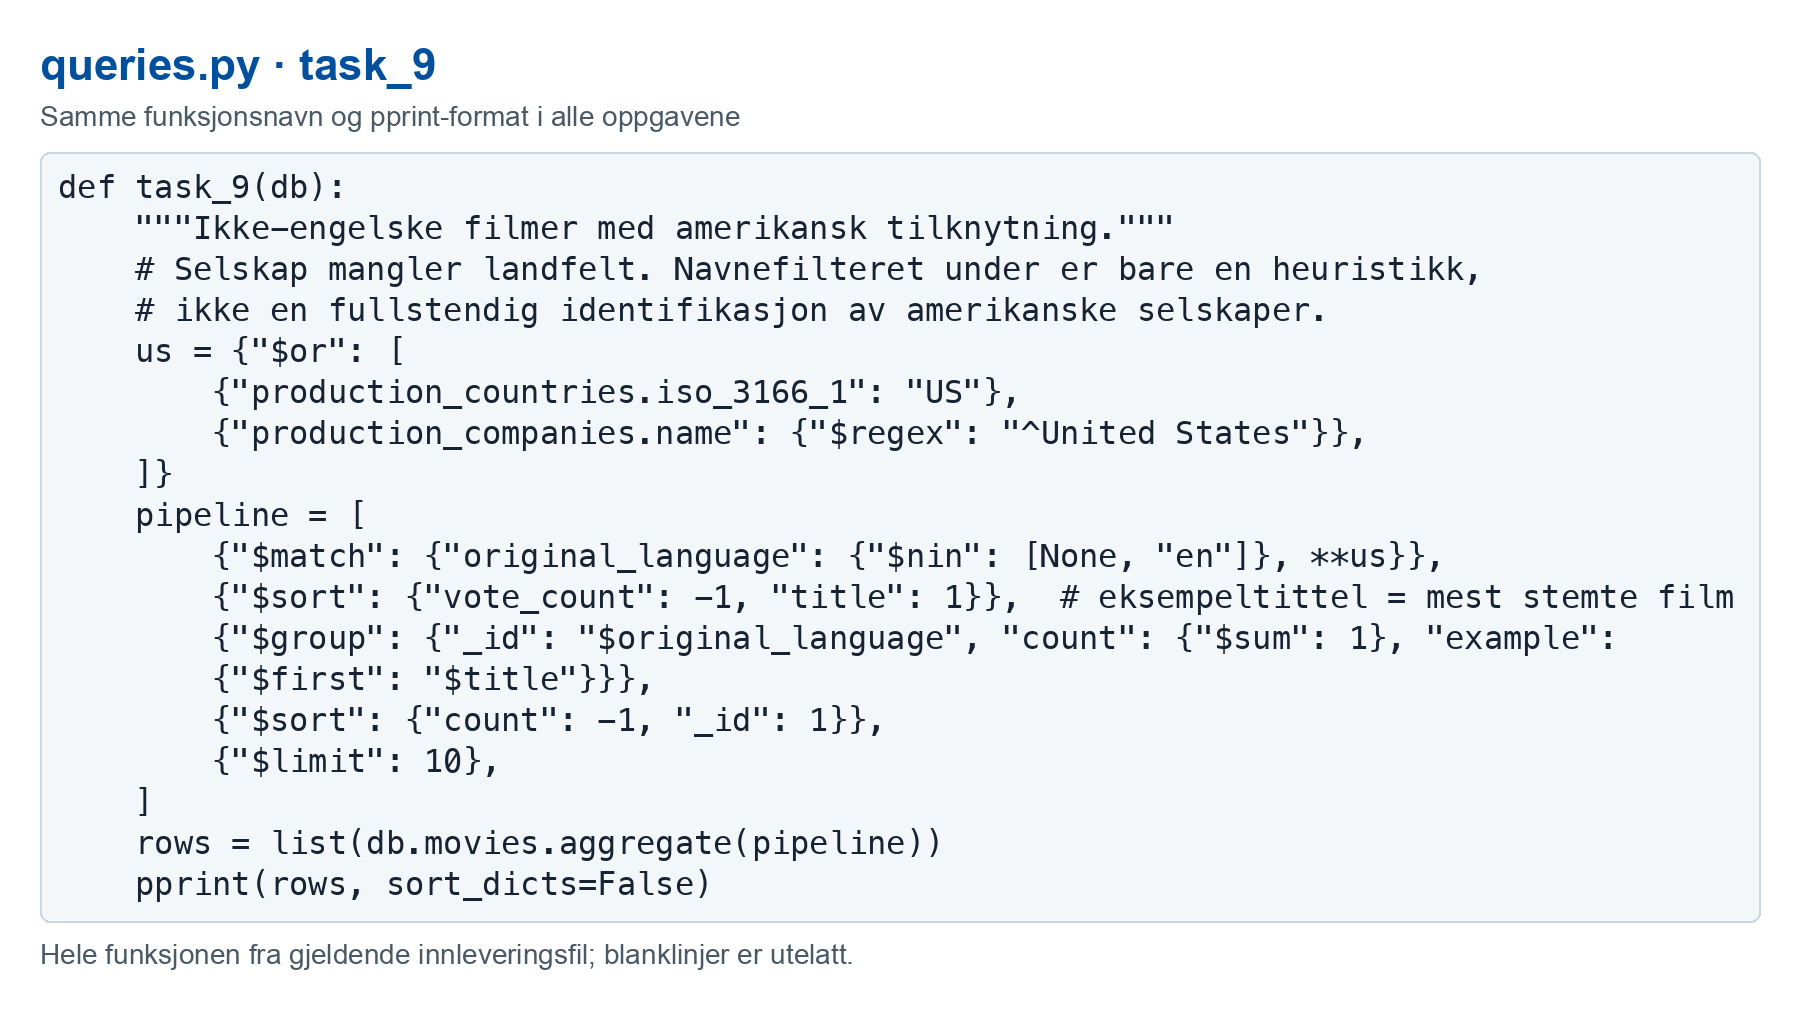
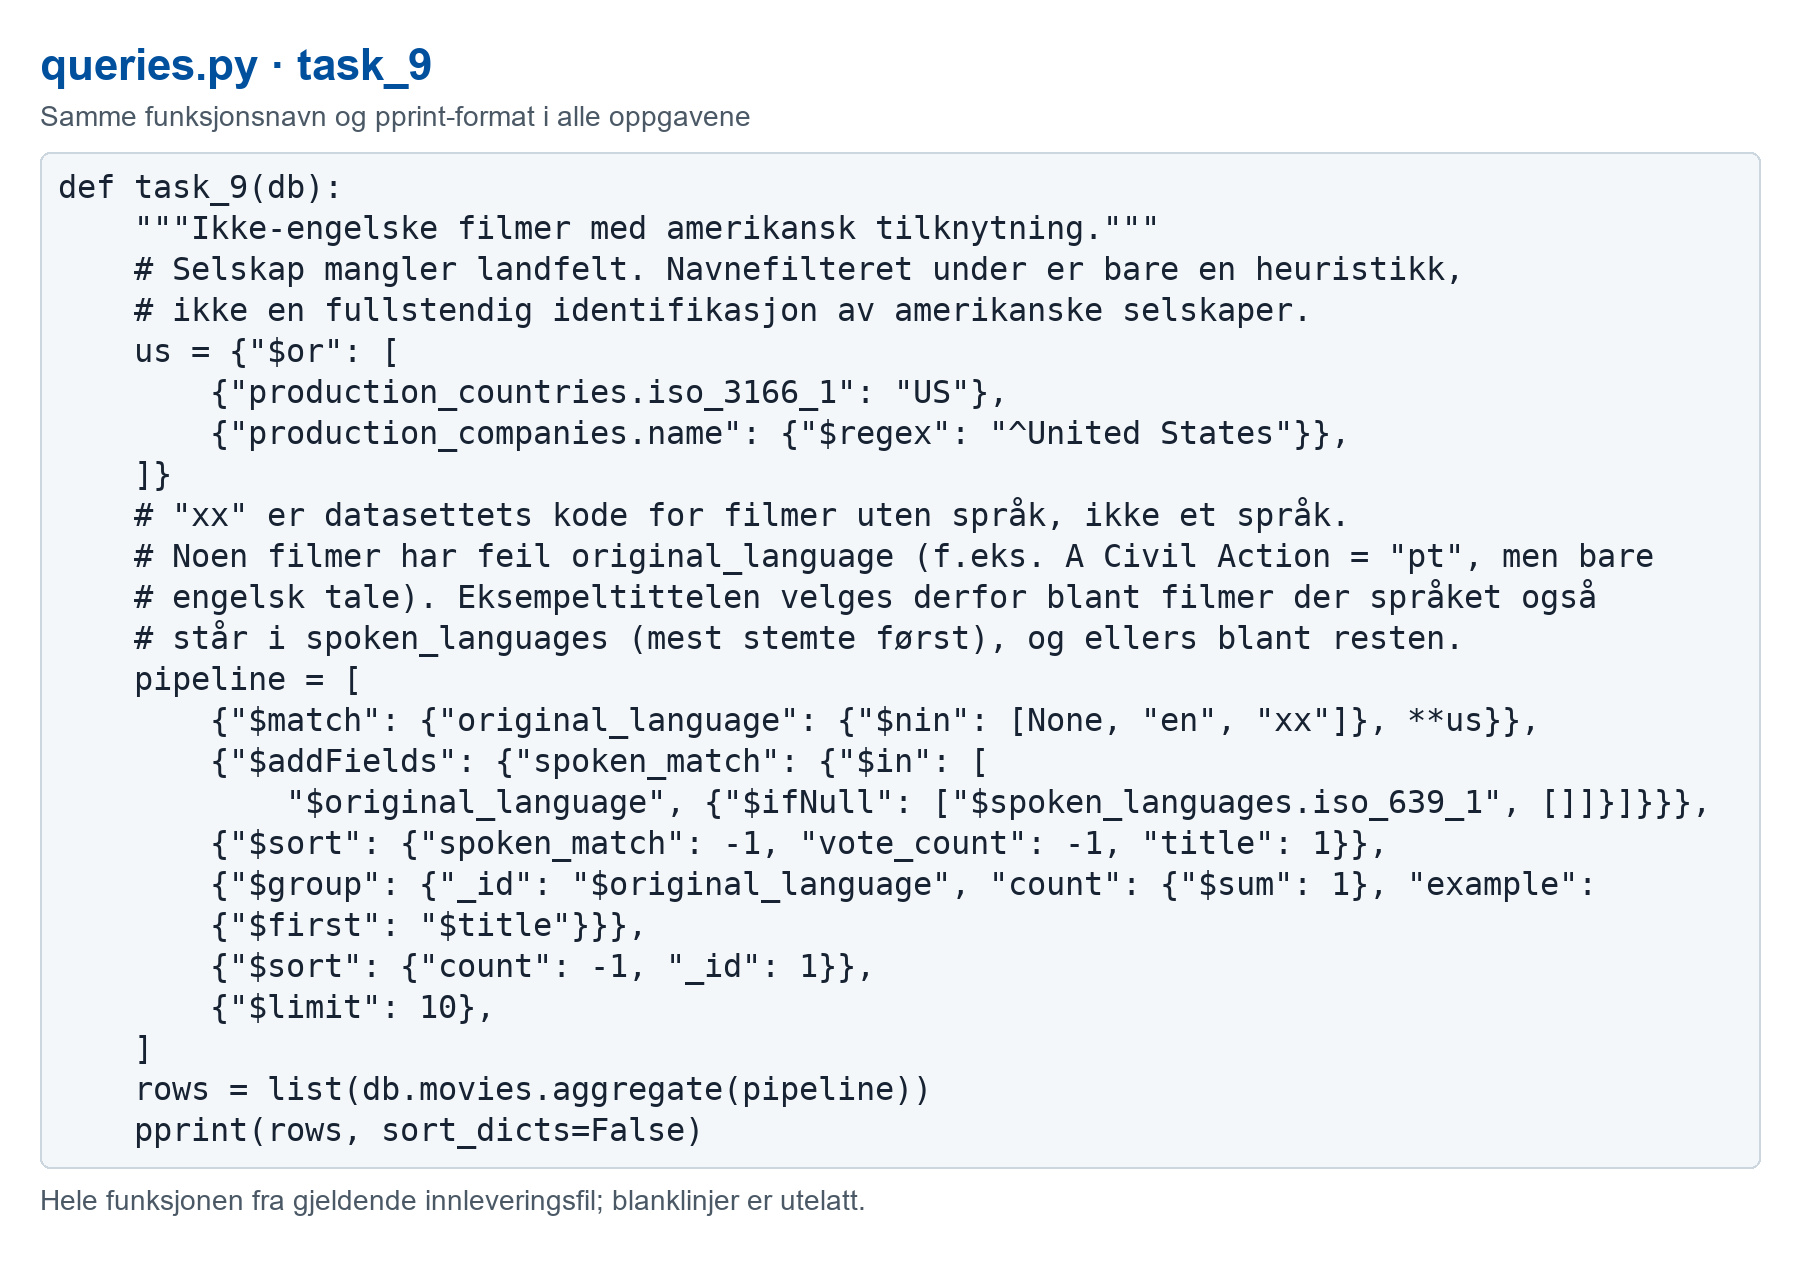
endrer oppgave 9

Changed region(s): [[0.0, 0.0303, 0.9644, 0.9697], [0.8089, 0.6667, 0.8711, 0.7273], [0.3733, 0.7576, 0.4044, 0.7879]]

diff --git a/report/main.tex b/report/main.tex
@@ -291,9 +291,11 @@ Topplisten domineres av Akira Kurosawa, som har 15 av 20 par, blant annet med Mi
 \FloatBarrier
 \subsubsection{Oppgave 9: Ikke-engelske filmer med amerikansk tilknytning}
 \paragraph{Metode og resultat}
-Vi velger filmer der \texttt{original\_language} ikke er \texttt{en} og ikke \texttt{null}. En vanlig \enquote{ikke lik}-sjekk ville tatt med de 11 filmene uten språk. Amerikansk tilknytning er \texttt{production\_countries.iso\_3166\_1 = "US"}. Produksjonsselskapene har bare navn og ID, ikke land. Navnefilteret \texttt{\^{}United States} er derfor bare en heuristikk og identifiserer ikke amerikanske selskaper generelt, som Warner Bros. eller Paramount. Det gir ingen ekstra filmer her (452 filmer både med og uten navnefilteret). Resultatet gjelder dermed i praksis filmer med USA som registrert produksjonsland. Delen av spørsmålet om amerikanske produksjonsselskaper kan ikke besvares eksakt fra disse feltene uten en ekstern kobling fra selskaps-ID til land. Dette er en begrensning ved besvarelsen. Vi grupperer på språk, teller, og velger som eksempeltittel filmen med flest stemmer.
+Vi velger filmer der \texttt{original\_language} ikke er \texttt{en}, \texttt{xx} eller \texttt{null}. En vanlig \enquote{ikke lik}-sjekk ville tatt med de 11 filmene der feltet mangler. Koden \texttt{xx} er ikke et språk, men datasettets markering av filmer uten språk (for eksempel \emph{Quest for Fire}, der dialogen er et oppdiktet urspråk). Den ville ellers havnet på 7.~plass, og vi har derfor utelatt den. Amerikansk tilknytning er \texttt{production\_countries.iso\_3166\_1 = "US"}. Produksjonsselskapene har bare navn og ID, ikke land. Navnefilteret \texttt{\^{}United States} er derfor bare en heuristikk og identifiserer ikke amerikanske selskaper generelt, som Warner Bros. eller Paramount. Det gir ingen ekstra filmer her (438 filmer både med og uten navnefilteret). Resultatet gjelder dermed i praksis filmer med USA som registrert produksjonsland. Delen av spørsmålet om amerikanske produksjonsselskaper kan ikke besvares eksakt fra disse feltene uten en ekstern kobling fra selskaps-ID til land. Dette er en begrensning ved besvarelsen. Vi grupperer på språk og teller.
 
-Topp 10 er fr (112), es (72), it (56), de (51), ja (31), pt (15), xx (14), nl (12), ru (11) og zh (11). Koden \texttt{xx} er ikke et språk. Den brukes i datasettet for filmer uten språk, og eksempelet er \emph{Quest for Fire}. Vi har beholdt den slik den står i dataene.
+Feltet \texttt{original\_language} har tydelige feil. \emph{A Civil Action} (1998) står for eksempel som \texttt{pt} og \emph{Killer Party} (1986) som \texttt{nl}, selv om begge er amerikanske filmer der \texttt{spoken\_languages} bare inneholder engelsk. Av de 438 treffene har 190 bare engelsk i \texttt{spoken\_languages}. Noen av dem er likevel riktige, for eksempel franske produksjoner som er spilt inn på engelsk. Vi kan derfor ikke skille feil fra riktige registreringer, og tellingen bruker feltet slik det står. Som eksempeltittel velger vi filmen med flest stemmer blant dem der originalspråket også står i \texttt{spoken\_languages}, slik at eksempelet ikke er en av de åpenbart feilregistrerte filmene.
+
+Topp 10 er fr (112), es (72), it (56), de (51), ja (31), pt (15), nl (12), ru (11), zh (11) og cn (6). Koden \texttt{cn} er TMDBs egen kode for kantonesisk og er ikke en ISO 639-1-kode. Tallene for pt og nl bør leses med forsiktighet, fordi mange av filmene der bare har engelsk tale.
 \skjermbilde{kode_09.jpg}{Kodeutdrag for oppgave 9; hele funksjonen ligger i \texttt{queries.py}.}{fig:q9a}
 \skjermbilde{resultat_09.jpg}{Resultat fra oppgave 9.}{fig:q9b}
 
@@ -331,7 +333,7 @@ Oppgave 1 og 3--9 tok mellom 0,1 og 10 sekunder. Oppgave 2 tok ca.\ 134 sekunder
 
 Et mulig forbedringstiltak er å hente film-ID og sjangre én gang til en Python-dictionary og bruke denne ved sjangeroppslag. Et annet er å bygge sjanger-ID-er inn i hver rating, mot kostnaden av mer lagring og gjentatte opplysninger. Alternativene er ikke ytelsesmålt her, og vi oppgir derfor ingen forventet kjøretid eller garantert hastighetsgevinst.
 
-29 TMDB-filmer er slått sammen fordi flere MovieLens-filmer peker på samme TMDB-id. Det gjelder 0,036\,\% av ratingene og vurderes som ubetydelig. Koden \texttt{xx} i oppgave 9 er beholdt slik den står i dataene.
+29 TMDB-filmer er slått sammen fordi flere MovieLens-filmer peker på samme TMDB-id. Det gjelder 0,036\,\% av ratingene og vurderes som ubetydelig. Koden \texttt{xx} i oppgave 9 er utelatt fordi den markerer filmer uten språk.
 
 % ==========================================================================
 \section{Hva lærte vi}

diff --git a/queries.py b/queries.py
@@ -288,9 +288,15 @@ def task_9(db):
         {"production_countries.iso_3166_1": "US"},
         {"production_companies.name": {"$regex": "^United States"}},
     ]}
+    # "xx" er datasettets kode for filmer uten språk, ikke et språk.
+    # Noen filmer har feil original_language (f.eks. A Civil Action = "pt", men bare
+    # engelsk tale). Eksempeltittelen velges derfor blant filmer der språket også
+    # står i spoken_languages (mest stemte først), og ellers blant resten.
     pipeline = [
-        {"$match": {"original_language": {"$nin": [None, "en"]}, **us}},
-        {"$sort": {"vote_count": -1, "title": 1}},  # eksempeltittel = mest stemte film
+        {"$match": {"original_language": {"$nin": [None, "en", "xx"]}, **us}},
+        {"$addFields": {"spoken_match": {"$in": [
+            "$original_language", {"$ifNull": ["$spoken_languages.iso_639_1", []]}]}}},
+        {"$sort": {"spoken_match": -1, "vote_count": -1, "title": 1}},
         {"$group": {"_id": "$original_language", "count": {"$sum": 1}, "example": {"$first": "$title"}}},
         {"$sort": {"count": -1, "_id": 1}},
         {"$limit": 10},
